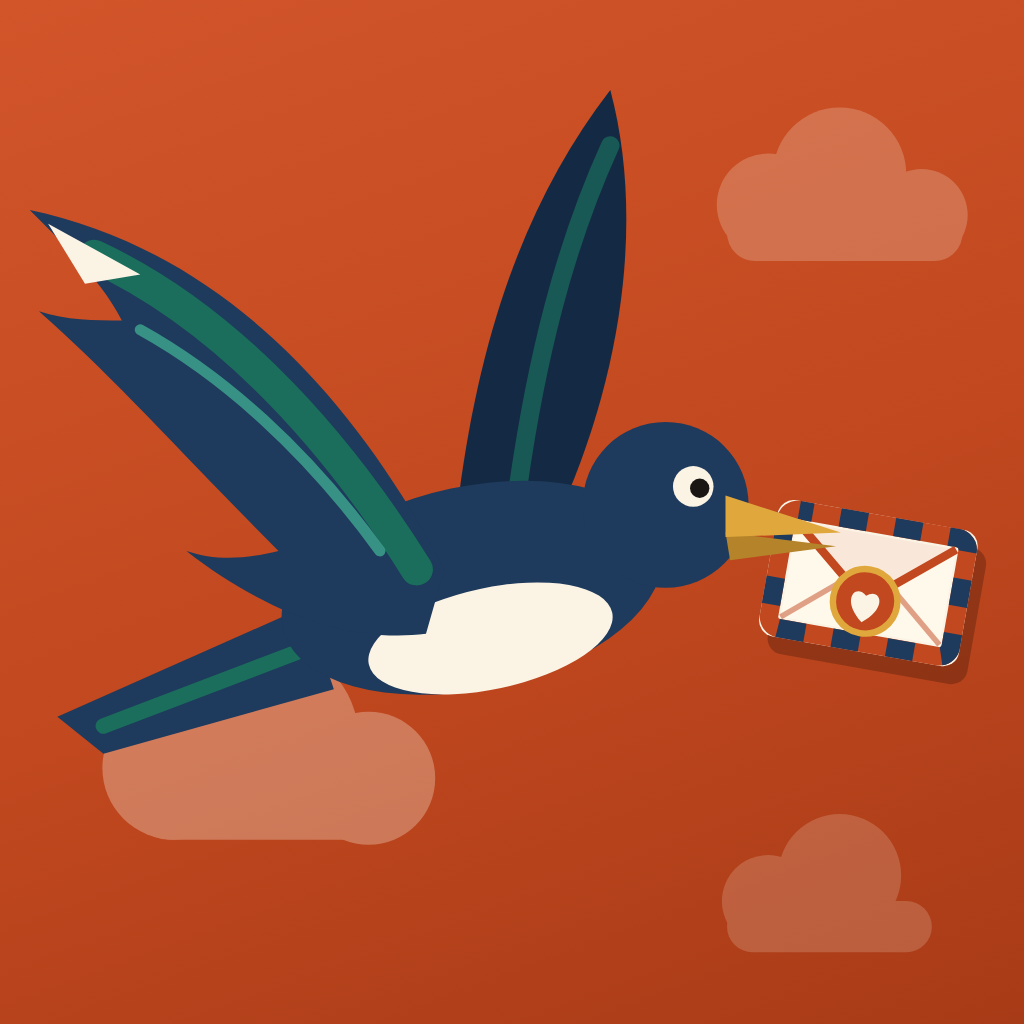
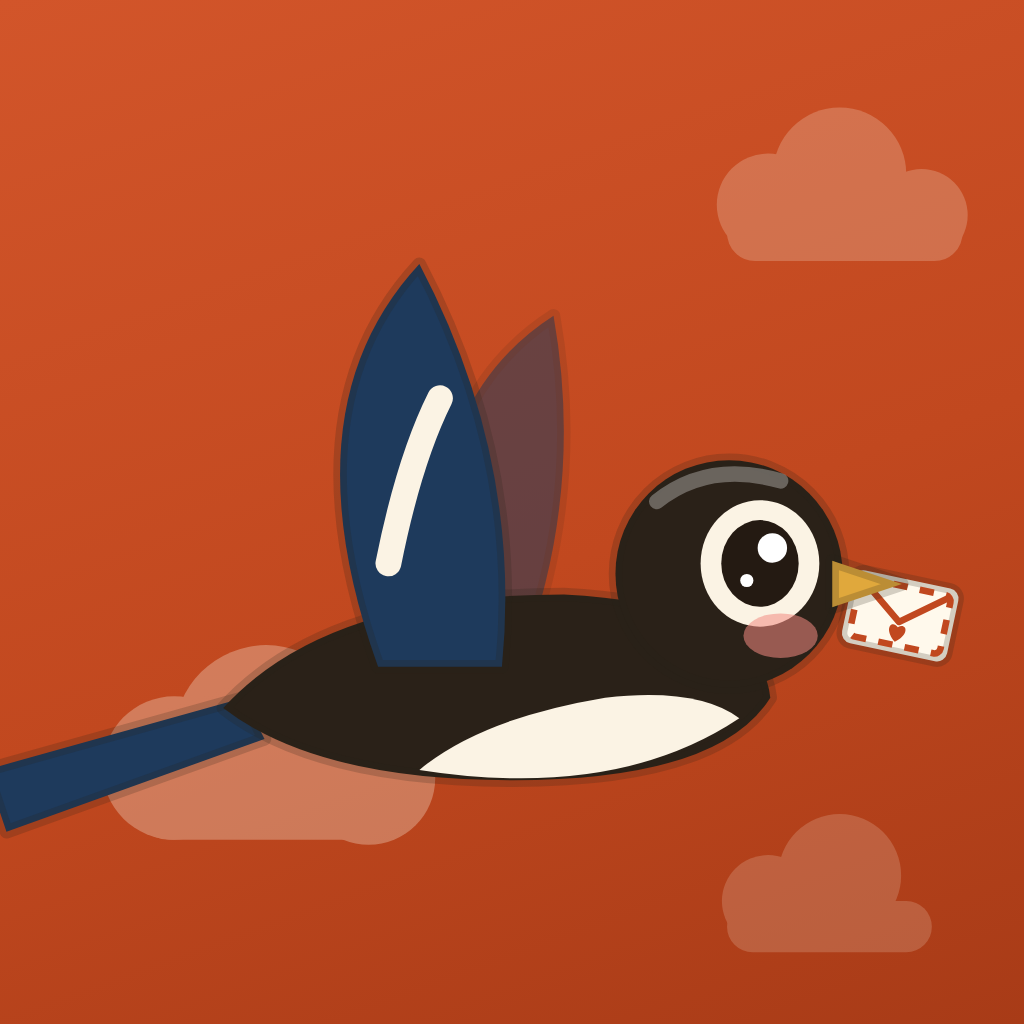
귀여운 새 그림: 앱 전체는 1안, 지도 위 나는 새·앱 아이콘은 편지 문 나는 모습 (#138)
* 처음 쓰기 편하게: 이름 화면 생략, 받는 곳 도시 버튼 한 번에, 첫 홈 카카오톡 초대·첫 편지 뒤 알림 묻기

Claude-Session: https://claude.ai/code/session_01GA1ocwaYjo7gRcQeBhuum6

* 받는 사람 흐름: 링크로 보고 로그인 한 번으로 내 편지함에 받기, 보낸 직후 카카오톡·문자로 알리기 창

- 임시 계정으로는 받는 사람 등록을 하지 않음(앱 깔고 카카오 로그인하면 편지가 없던 문제)
- 편지 화면에 '카카오로 받기'(구글·애플도), 받은 뒤 스토어 앱 받기 버튼
- 로그인 전에 본 편지는 기억했다가 로그인하면 홈에서 받음
- 앱 없는 사람에게 보낸 직후 한 번 '알려 주세요' 창(카카오톡·문자)

Claude-Session: https://claude.ai/code/session_01GA1ocwaYjo7gRcQeBhuum6

* 편지 링크 화면: 스토어 앱이 나오면 홈 화면 추가 카드 대신 앱 받기 하나만

Claude-Session: https://claude.ai/code/session_01GA1ocwaYjo7gRcQeBhuum6

* 첫 화면: 로그인 아래 '홈 화면에 추가'·'스토어에서 받기' 버튼, 애플 로그인은 아이폰에서만

Claude-Session: https://claude.ai/code/session_01GA1ocwaYjo7gRcQeBhuum6

* 기록: 받는 사람 흐름·첫 화면 버튼·처음 쓰기 편하게 반영

Claude-Session: https://claude.ai/code/session_01GA1ocwaYjo7gRcQeBhuum6

* 첫 화면: 스토어 받기 버튼을 폰에서 항상 보이게(출시 전엔 '곧 나와요' 안내)

Claude-Session: https://claude.ai/code/session_01GA1ocwaYjo7gRcQeBhuum6

* 안드로이드 스토어 버튼: 플레이 스토어 앱을 바로 여는 intent 주소(못 열면 웹 플레이로)

Claude-Session: https://claude.ai/code/session_01GA1ocwaYjo7gRcQeBhuum6

* 기록: 펜팔 유료(수락 시 결제)·성별 질문과 답

Claude-Session: https://claude.ai/code/session_01GA1ocwaYjo7gRcQeBhuum6

* 펜팔 우표 기획과 계산(첫 편지만·하루 1통 무료·답장 없으면 돌려줌)

Claude-Session: https://claude.ai/code/session_01GA1ocwaYjo7gRcQeBhuum6

* 아이폰 Firebase 설정 파일 추가, 구글 로그인 주소가 없어도 빌드되게

Claude-Session: https://claude.ai/code/session_01GA1ocwaYjo7gRcQeBhuum6

* 아이폰 구글 로그인용 클라이언트 ID를 Firebase 설정 파일에 추가
[…]

Changed region(s): [[0.0, 0.0938, 0.9688, 0.8125]]

diff --git a/src/components/CuteBird.tsx b/src/components/CuteBird.tsx
@@ -1,0 +1,167 @@
+/**
+ * 귀여운 새 3종(까치·비둘기·매) — 2026-11-01 대표님: "더 귀엽게" → "너무 뚱뚱해, 3안까지" → "1안으로, 지도에 나는 새와 앱 아이콘은 나는 모습(C)".
+ *  A 날씬 동글: 둥근 머리 + 날씬한 물방울 몸, 서 있는 모습
+ *  B 머리 큰 이모티콘: 큰 머리 + 작고 가는 몸, 긴 꼬리
+ *  C 나는 모습: 날개를 위로 편 날씬한 옆모습(발은 접음)
+ * 오른쪽을 보는 옆모습, viewBox 200x160(BirdIcon과 같음). 테두리는 --cb-rim(어두운 화면에서 밝게).
+ */
+import type { CSSProperties, JSX } from "react";
+
+type Pal = { body: string; belly: string; wing: string; tail: string; beak: string; feet: string };
+const PAL: Record<string, Pal> = {
+  magpie: { body: "#2A2118", belly: "#FBF3E4", wing: "#1E3A5C", tail: "#1E3A5C", beak: "#E0A83C", feet: "#E0A83C" },
+  pigeon: { body: "#9AA8B8", belly: "#C9D3DE", wing: "#B5C1CE", tail: "#6F8094", beak: "#3A2E26", feet: "#E8683F" },
+  hawk: { body: "#8A5A3C", belly: "#FBF3E4", wing: "#5B3A29", tail: "#5B3A29", beak: "#E0A83C", feet: "#E0A83C" },
+};
+
+const RIM: CSSProperties = { stroke: "var(--cb-rim, rgba(42,33,24,.2))", strokeWidth: 2.6, strokeLinejoin: "round" };
+const f = (fill: string, rim = true): CSSProperties => ({ fill, ...(rim ? RIM : {}) });
+const ln = (stroke: string, w: number, op = 1): CSSProperties => ({ stroke, strokeWidth: w, strokeLinecap: "round", strokeLinejoin: "round", fill: "none", opacity: op });
+
+function Eye({ x, y, r, ring }: { x: number; y: number; r: number; ring?: boolean }) {
+  return (
+    <>
+      {ring && <ellipse cx={x} cy={y} rx={r + 4} ry={r * 1.1 + 4} fill="#FBF3E4" />}
+      <ellipse cx={x} cy={y} rx={r} ry={r * 1.12} fill="#241a12" />
+      <circle cx={x + r * 0.32} cy={y - r * 0.4} r={r * 0.38} fill="#fff" />
+      <circle cx={x - r * 0.34} cy={y + r * 0.44} r={r * 0.17} fill="#fff" />
+    </>
+  );
+}
+const Blush = ({ x, y, s = 1 }: { x: number; y: number; s?: number }) => <ellipse cx={x} cy={y} rx={8 * s} ry={4.8 * s} fill="#F28B82" opacity=".55" />;
+
+/** 매는 크림색 얼굴과 눈썹 */
+function HeadMark({ id, hx, hy, r }: { id: string; hx: number; hy: number; r: number }) {
+  if (id !== "hawk") return null;
+  return (
+    <>
+      <path d={`M${hx - r * 0.1} ${hy - r * 0.2} Q${hx + r * 1.05} ${hy - r * 0.55} ${hx + r * 0.95} ${hy + r * 0.45} Q${hx + r * 0.4} ${hy + r * 1.05} ${hx - r * 0.2} ${hy + r * 0.7} Q${hx + r * 0.1} ${hy + r * 0.25} ${hx - r * 0.1} ${hy - r * 0.2} Z`} fill="#FBF3E4" />
+      <path d={`M${hx - r * 0.05} ${hy - r * 0.42} Q${hx + r * 0.4} ${hy - r * 0.68} ${hx + r * 0.85} ${hy - r * 0.36}`} style={ln("#5B3A29", r * 0.2)} />
+    </>
+  );
+}
+function Beak({ id, x, y, s }: { id: string; x: number; y: number; s: number }) {
+  const p = PAL[id];
+  if (id === "hawk") return <path d={`M${x} ${y - 6 * s} Q${x + 16 * s} ${y - 6 * s} ${x + 16 * s} ${y + 7 * s} Q${x + 10 * s} ${y + 3 * s} ${x} ${y + 5 * s} Z`} style={f(p.beak)} />;
+  return (
+    <>
+      <path d={`M${x} ${y - 5 * s} L${x + 15 * s} ${y} L${x} ${y + 5 * s} Z`} style={f(p.beak)} />
+      {id === "pigeon" && <ellipse cx={x + 1} cy={y - 5 * s} rx={3.6 * s} ry={2.6 * s} fill="#FBF3E4" />}
+    </>
+  );
+}
+
+/** 부리에 문 편지(항공우편 봉투 + 하트 도장) */
+function Envelope({ x, y, s = 1 }: { x: number; y: number; s?: number }) {
+  return (
+    <g transform={`translate(${x} ${y}) rotate(12) scale(${s})`}>
+      <rect x="0" y="-9" width="26" height="18" rx="2.5" fill="#FFF9EC" style={RIM} />
+      <rect x="1.8" y="-7.2" width="22.4" height="14.4" rx="1.5" fill="none" stroke="#C1481F" strokeWidth="1.6" strokeDasharray="3.5 3" />
+      <path d="M2 -7 L13 1.5 L24 -7" fill="none" stroke="#C1481F" strokeWidth="1.6" strokeLinejoin="round" />
+      <path d="M13 6.4 C9.6 3.8 11.2 1.2 13 2.8 C14.8 1.2 16.4 3.8 13 6.4 Z" fill="#C1481F" />
+    </g>
+  );
+}
+
+/* ───── A 날씬 동글 ───── */
+function A({ id, letter }: { id: string; letter?: boolean; flap?: boolean }) {
+  const p = PAL[id];
+  const long = id === "magpie";
+  return (
+    <>
+      <path d={long ? "M70 112 L10 132 L16 142 L76 120 Z" : "M70 112 L28 128 L34 138 L76 120 Z"} style={f(p.tail)} />
+      <path d="M100 124 v20 M93 145 h13 M116 122 v22 M109 145 h13" style={ln(p.feet, 4)} />
+      <path d="M62 112 Q72 82 112 76 Q148 74 150 100 Q148 128 110 132 Q78 134 62 112 Z" style={f(p.body)} />
+      <path d="M96 128 Q126 132 144 108 Q140 96 126 96 Q104 104 96 128 Z" fill={p.belly} />
+      {id === "pigeon" && <path d="M120 84 Q138 92 150 84 Q150 96 134 100 Q122 98 120 84 Z" fill="#3EA890" />}
+      <path d="M74 104 Q92 82 122 90 Q108 118 78 116 Z" style={f(p.wing)} />
+      {id === "magpie" && <path d="M86 102 Q98 96 110 100" style={ln("#FBF3E4", 4.5)} />}
+      {id === "pigeon" && <path d="M86 102 Q98 98 108 102 M90 109 Q100 106 110 109" style={ln("#6F8094", 3)} />}
+      {id === "hawk" && <path d="M110 112 l3 3 l3 -3 M122 114 l3 3 l3 -3" style={ln("#B58257", 2.4)} />}
+      <circle cx="140" cy="60" r="26" style={f(p.body)} />
+      <HeadMark id={id} hx={140} hy={60} r={26} />
+      <path d="M122 46 Q134 36 150 40" style={ln("#fff", 3.4, 0.3)} />
+      <Eye x={147} y={58} r={8.5} ring={id === "magpie"} />
+      <Blush x={151} y={74} />
+      {letter && <Envelope x={168} y={66} s={0.95} />}
+      <Beak id={id} x={164} y={62} s={1} />
+    </>
+  );
+}
+
+/* ───── B 머리 큰 이모티콘 ───── */
+function B({ id, letter }: { id: string; letter?: boolean; flap?: boolean }) {
+  const p = PAL[id];
+  const long = id === "magpie";
+  return (
+    <>
+      <path d={long ? "M66 112 Q30 122 6 142 Q34 140 72 122 Z" : "M66 112 Q42 122 26 138 Q48 136 72 122 Z"} style={f(p.tail)} />
+      <path d="M92 128 v18 M86 147 h12 M106 128 v18 M100 147 h12" style={ln(p.feet, 4)} />
+      <ellipse cx="96" cy="112" rx="34" ry="21" style={f(p.body)} />
+      <path d="M80 124 Q100 136 122 120 Q118 106 104 108 Q88 112 80 124 Z" fill={p.belly} />
+      <path d="M68 108 Q84 96 104 104 Q94 122 72 118 Z" style={f(p.wing)} />
+      {id === "magpie" && <path d="M78 110 Q88 106 98 110" style={ln("#FBF3E4", 4)} />}
+      {id === "pigeon" && <path d="M78 110 Q88 107 97 110" style={ln("#6F8094", 2.8)} />}
+      <circle cx="126" cy="64" r="36" style={f(p.body)} />
+      {id === "pigeon" && <path d="M100 86 Q126 104 152 86 Q150 100 126 104 Q104 100 100 86 Z" fill="#3EA890" />}
+      {id === "magpie" && <path d="M108 92 Q128 104 152 88 Q146 100 128 102 Q112 100 108 92 Z" fill="#FBF3E4" />}
+      <HeadMark id={id} hx={126} hy={64} r={36} />
+      <path d="M102 44 Q118 30 140 34" style={ln("#fff", 4, 0.3)} />
+      <Eye x={138} y={60} r={11} ring={id === "magpie"} />
+      <Blush x={142} y={80} s={1.2} />
+      {letter && <Envelope x={164} y={72} />}
+      <Beak id={id} x={160} y={66} s={1.1} />
+    </>
+  );
+}
+
+/* ───── C 나는 모습 ───── */
+function C({ id, letter, flap }: { id: string; letter?: boolean; flap?: boolean }) {
+  // 날개 퍼덕임(지도 위 새): 어깨(96,90)를 중심으로 위아래
+  const beat = (far: boolean) => flap ? <animateTransform attributeName="transform" type="rotate" values={far ? "-14 104 88; 20 104 88; -14 104 88" : "-22 96 90; 28 96 90; -22 96 90"} dur="0.55s" repeatCount="indefinite" /> : null;
+  const p = PAL[id];
+  const long = id === "magpie";
+  return (
+    <>
+      <g>{beat(true)}<path d="M96 86 Q90 40 118 22 Q124 56 112 88 Z" style={{ ...f(p.wing), opacity: 0.55 }} /></g>
+      <path d={long ? "M58 96 L8 110 L12 122 L62 104 Z" : "M58 96 L22 106 L26 118 L62 104 Z"} style={f(p.tail)} />
+      <path d="M54 98 Q74 76 120 76 Q158 78 160 96 Q150 112 110 112 Q72 112 54 98 Z" style={f(p.body)} />
+      <path d="M92 110 Q130 116 154 100 Q146 94 128 96 Q104 100 92 110 Z" fill={p.belly} />
+      {id === "pigeon" && <path d="M136 80 Q150 86 158 82 Q160 94 146 96 Q136 92 136 80 Z" fill="#3EA890" />}
+      {id === "hawk" && <path d="M110 104 l3 3 l3 -3 M122 106 l3 3 l3 -3" style={ln("#B58257", 2.4)} />}
+      <g>
+        {beat(false)}
+        <path d="M84 90 Q66 40 92 12 Q112 50 108 90 Z" style={f(p.wing)} />
+        {id === "magpie" && <path d="M86 70 Q90 50 96 38" style={ln("#FBF3E4", 5)} />}
+        {id === "pigeon" && <path d="M86 62 Q92 56 98 60 M88 74 Q94 68 102 72" style={ln("#6F8094", 3)} />}
+        {id === "hawk" && <path d="M84 50 l6 2 M86 62 l7 2 M88 74 l7 2" style={ln("#E0A83C", 2.4, 0.8)} />}
+      </g>
+      <circle cx="152" cy="72" r="22" style={f(p.body)} />
+      <HeadMark id={id} hx={152} hy={72} r={22} />
+      <path d="M138 58 Q148 50 162 54" style={ln("#fff", 3, 0.3)} />
+      <Eye x={158} y={70} r={7.5} ring={id === "magpie"} />
+      <Blush x={162} y={84} s={0.9} />
+      {letter && <Envelope x={175} y={78} s={0.8} />}
+      <Beak id={id} x={172} y={74} s={0.9} />
+    </>
+  );
+}
+
+type ArtProps = { id: string; letter?: boolean; flap?: boolean };
+const V: Record<string, (p: ArtProps) => JSX.Element> = { A, B, C };
+export const CUTE_BIRDS = Object.keys(PAL);
+export const isCute = (id: string) => id in PAL;
+
+/** svg 안에 바로 넣는 그림(viewBox 200x160 좌표). A = 앱 전체 새(2026-11-01 대표님 확정 1안), C = 지도 위 나는 새·앱 아이콘 */
+export function CuteArt({ id, variant = "A", letter, flap }: ArtProps & { variant?: "A" | "B" | "C" }) {
+  const Art = V[variant] ?? A;
+  return <Art id={PAL[id] ? id : "pigeon"} letter={letter} flap={flap} />;
+}
+
+export default function CuteBird({ id, variant = "A", size = 64, className, letter }: { id: string; variant?: "A" | "B" | "C"; size?: number; className?: string; letter?: boolean }) {
+  return (
+    <svg viewBox="0 0 200 160" width={size} height={(size * 160) / 200} className={className} aria-hidden>
+      <CuteArt id={id} variant={variant} letter={letter} />
+    </svg>
+  );
+}

diff --git a/src/components/FlyBird.tsx b/src/components/FlyBird.tsx
@@ -4,6 +4,8 @@
  * 새마다 색과 특징(제비 갈라진 꼬리, 까치 긴 꼬리, 두루미 붉은 정수리·긴 다리, 붕붕이 프로펠러)이 달라요.
  * 오른쪽을 보는 모습이 기본, 가운데가 (0,0). 부리에 편지를 물고 있어요.
  */
+import { CuteArt, isCute } from "./CuteBird";
+
 type Look = { body: string; wing: string; wing2: string; belly: string; head: string; beak: string; cheek?: string; tail: "fan" | "fork" | "long" | "short"; extra?: "crane" | "pigeon" | "swallow" | "hawk" };
 const LOOKS: Record<string, Look> = {
   hawk: { body: "#8A5A3C", wing: "#6B4229", wing2: "#5B3A29", belly: "#F1E2C8", head: "#8A5A3C", beak: "#E0A83C", tail: "fan", extra: "hawk" },
@@ -32,6 +34,21 @@ export default function FlyBird({ birdId, x, y, angle = 0, size = 1, still }: { 
             <circle cx="6" cy="1" r="6" fill="#FBF3E4" stroke="#5B3A29" strokeWidth="1.5" /><circle cx="7.5" cy="1" r="2.8" fill="#241a12" /><circle cx="8.6" cy="-0.2" r="1" fill="#fff" />
             <ellipse cx="-6" cy="6" rx="3" ry="2" fill="#F29B8E" opacity=".8" />
             <g transform="translate(13 9) rotate(-10)"><rect x="0" y="-4" width="12" height="8" rx="1.5" fill="#fff" stroke="#C1481F" strokeWidth="1.2" /><path d="M0.5 -3.4 L6 0.6 L11.5 -3.4" fill="none" stroke="#C1481F" strokeWidth="1" /></g>
+          </g>
+        </g>
+      </g>
+    );
+  }
+
+  // 새 3종(까치·비둘기·매)은 귀여운 나는 모습(C안, 2026-11-01 대표님 확정): 날개 퍼덕임 + 부리에 편지
+  if (isCute(birdId)) {
+    return (
+      <g transform={`translate(${x} ${y})`} className="flybird" aria-hidden>
+        <ellipse cx={4 * size} cy={26 * size} rx={16 * size} ry={3.8 * size} className="fb-shadow">{anim("1 1; 0.86 0.86; 1 1", "1.2s", "scale")}</ellipse>
+        <g transform={`scale(${size}) ${flip} rotate(${tilt})`}>
+          <g>
+            {anim("0 0; 0 -3.5; 0 0", "1.2s", "translate")}
+            <g transform="scale(0.32) translate(-116 -78)"><CuteArt id={birdId} variant="C" letter flap={!still} /></g>
           </g>
         </g>
       </g>

diff --git a/src/components/BirdIcon.tsx b/src/components/BirdIcon.tsx
@@ -4,6 +4,7 @@
  * 모두 오른쪽을 보는 옆모습, viewBox 200x160. HTML에서도, 지도(svg) 안에서도 x/y를 주면 쓸 수 있어요.
  */
 import type { CSSProperties } from "react";
+import { CuteArt, isCute } from "./CuteBird";
 
 const c = (v: string): CSSProperties => ({ fill: `var(${v})` });
 const s = (v: string, w: number): CSSProperties => ({ stroke: `var(${v})`, strokeWidth: w, strokeLinecap: "round", strokeLinejoin: "round", fill: "none" });
@@ -303,6 +304,8 @@ type Props = {
 };
 
 export default function BirdIcon({ id, size = 40, className, x, y, title, letter }: Props) {
+  // 지금 고를 수 있는 새 3종(까치·비둘기·매)은 귀여운 새 그림(1안), 빠진 새는 예전 그림(예전 편지용)
+  const cute = isCute(id);
   const Art = ART[id] ?? Pigeon;
   return (
     <svg
@@ -318,8 +321,7 @@ export default function BirdIcon({ id, size = 40, className, x, y, title, letter
       focusable="false"
       style={letter ? { overflow: "visible" } : undefined}
     >
-      {letter && <Letter id={id} />}
-      <Art />
+      {cute ? <CuteArt id={id} letter={letter} /> : <>{letter && <Letter id={id} />}<Art /></>}
     </svg>
   );
 }

diff --git a/src/app/globals.css b/src/app/globals.css
@@ -38,7 +38,7 @@
     --on-nam: #10161F;
     --hwangto-text: #F0BC5C;
     --b-cream: #F3E9D8; --b-ink: #E9DDC8; --b-brown: #B58257; --b-brown2: #8A5A3C;
-    --b-grey: #A9B7C6; --b-grey2: #7F90A3; --b-edge: rgba(243, 233, 216, 0.0);
+    --b-grey: #A9B7C6; --b-grey2: #7F90A3; --b-edge: rgba(243, 233, 216, 0.0); --cb-rim: rgba(243, 233, 216, 0.5);
     --sea: #1C2B34; --land-dim: #2B251E; --coast: #5E5039; --grid: rgba(157, 191, 227, 0.10); --map-text: #E6DAC4;
     --lbl-halo: #1A1613; /* 어두운 모드: 지도 글자 테두리는 어둡게 (밝은 글자가 뭉개지지 않게) */
   }

diff --git a/CLAUDE.md b/CLAUDE.md
@@ -29,6 +29,7 @@
 | 까치 | 약 35km | 하루 | 약 2일 7시간 | 50통에 1번 | 특별 (도착 연출이 특별함) |
 
 - **새 3종·진짜 새 속도(2026-11-01 밤, 대표님: "새별 속도가 진짜 새랑 동일하게, 종류가 많아 느린·중간·빠른 3개만" → 기획팀 추천대로 결정)**: 고를 수 있는 새 = **까치(약 35km/h, 최소 2시간)·비둘기(약 65km/h, 최소 1시간)·매(약 90km/h, 최소 30분)**. 걸리는 시간 = max(최소 시간 `realMin`, 순항 시간) — 쉬는 배수 없음, `core/flight.ts REAL_SINCE`(2026-11-01 22:30) 뒤 편지부터. 서울-부산: 매 3시간 37분·비둘기 5시간·까치 9시간 17분. 제비·두루미·붕붕이는 `retired`(예전 편지 그림·시간에만, `ALL_BIRDS`·`getBird`), 고르기·내 새·무작위는 `BIRDS`(3종). 내 새가 빠진 새면 홈에서 남은 3종으로 자동 교체, `/bungbungi`는 홈으로. 빠진 새는 나중에 계절 한정 새 후보. 아래 6종 표·성격 항목은 옛 기록. test:core 436.
+- **귀여운 새 그림(2026-11-01 밤, 대표님: "더 귀엽게"→"너무 뚱뚱해, 3안까지"→"1안으로, 날아갈 때 지도는 4안(=나는 모습), 앱 바로가기도 새가 편지 문 모습")**: `src/components/CuteBird.tsx`(A 날씬 동글·B 머리 큰 이모티콘·C 나는 모습, 큰 눈·볼터치). 앱 전체 새(`BirdIcon`)는 3종이면 **A**, 지도 위 나는 새(`FlyBird`)는 **C + 날개 퍼덕임 + 부리에 편지**, 앱 아이콘·시작 화면·알림 아이콘은 **C 까치 + 편지**(`promo/build-icons.mts`, SNS 프로필 사진은 예전 그림 그대로). 빠진 새는 예전 그림. 어두운 화면 테두리 `--cb-rim`. 스토어 앱 아이콘은 새 앱 파일(빌드)부터, 홈 화면 아이콘은 지우고 다시 추가해야 바뀜. 스토어 화면 사진·홍보 카드는 다시 만들어야 새 그림.
 - **새마다 다른 성격(2026-10-17 저녁, 대표님: "다 1시간이라 다른 점이 없어, 빠른 건 분·느린 건 시간·진짜 느린 건 하루")**: 걸리는 시간 = max(새의 최소 시간 `minMin`, 순항 시간 × 새의 쉬는 배수 `rest`). 값은 `core/birds.ts`(매 1.5배·10분, 붕붕이 2배·30분, 비둘기 3배·1시간, 제비 3배·3시간, 두루미 5배·6시간, 까치 6배·하루). `core/flight.ts TIER_SINCE`(2026-10-17 21:00) 뒤에 보낸 편지부터(이미 보낸 편지는 그대로). 하루가 넘으면 "1일 7시간"으로 표시(`formatMinutes`). **새 고르기 줄은 빠른 순서(매·붕붕이·비둘기·제비·두루미·까치)로 6종이 한 줄에 다 보임**(`BIRDS_SLOW_TO_FAST`는 실제 걸리는 시간 기준, `.ch-birds` 6칸 격자). **주의: 매가 훨씬 빨라져서, 매를 유료로 팔면 "시간 단축 결제"로 보일 위험이 커짐 → 유료 새 결정 전 재무·법무 재검토 필요.**
 
 - **쉬어 가며 날기(2026-10-17, 대표님: "새들이 너무 빠르다, 더 오래 걸리게")**: 걸리는 시간 = 순항 속도로 계산한 시간 × **3**(쉬고·먹고·바람 피하는 시간), **최소 1시간**(같은 동네도). 값은 `core/geo.ts REST_FACTOR·MIN_FLIGHT_MIN` 한곳, `core/flight.ts SLOW_SINCE`(2026-10-17 06:00) 뒤에 보낸 편지부터 적용(이미 보낸 편지는 그대로). 새끼리 빠르고 느린 순서는 그대로. 순항만 계산한 값은 `cruiseMinutes`. test:core 291.
